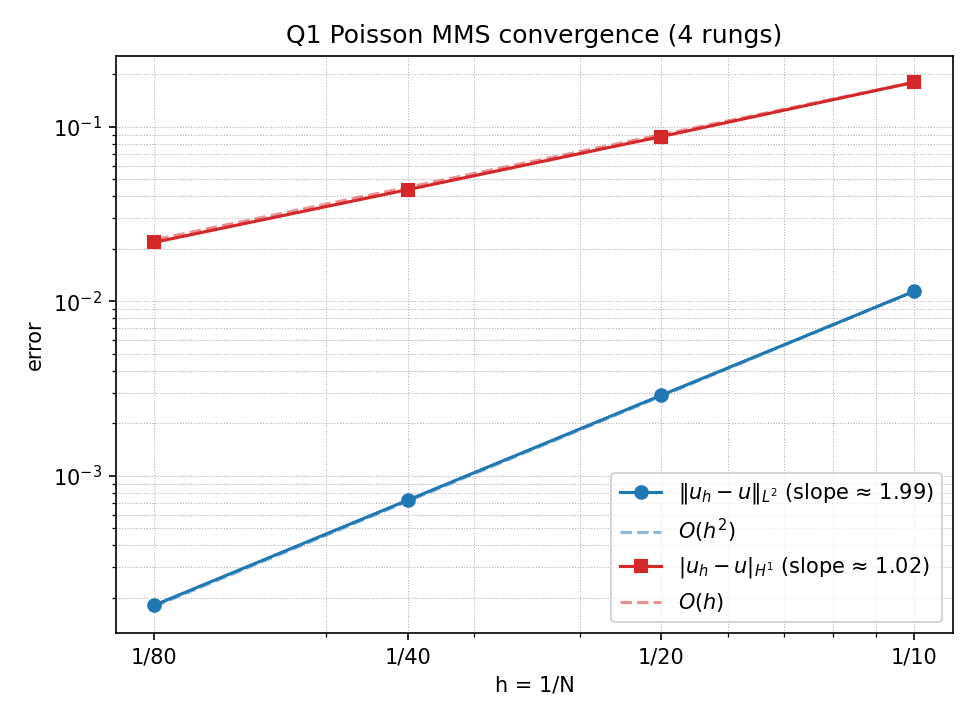
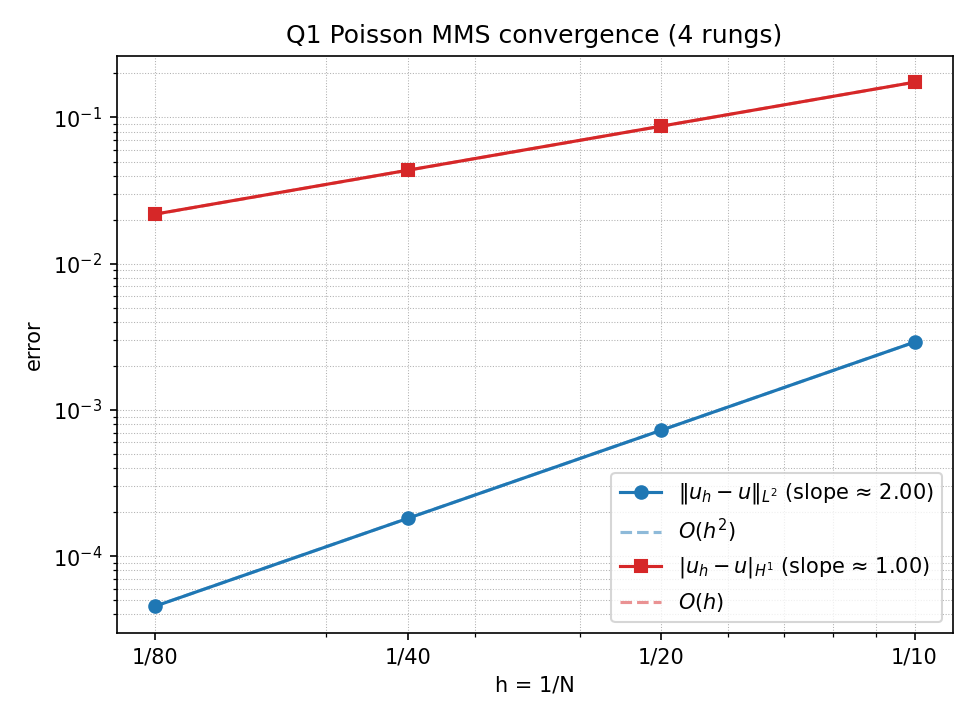
align MMS error norms with assembly quadrature
Clarify prompt to require the same 2x2x2 Gauss-Legendre rule for
L2/H1 error integration as used in assembly, and refresh the Q1
convergence gold data accordingly. Also pin -O2 -g for RelWithDebInfo
so release builds stay debuggable.

diff --git a/prompt.md b/prompt.md
@@ -261,8 +261,14 @@ error. Constant and linear fields must both pass.
 - Error metrics: both
   - L²: `||u_h − u||_{L²}` = `sqrt(∫ (u_h − u)² dx)`,
   - H¹ seminorm: `|u_h − u|_{H¹}` = `sqrt(∫ |∇u_h − ∇u|² dx)`,
-  integrated on the physical domain (unit cube). Use one
-  element-wise `parallel_reduce` per norm, reusing the Jacobian
+  integrated on the physical domain (unit cube) using the **same
+  2×2×2 Gauss–Legendre rule as assembly**: NQP=8 on the [-1,1]³
+  reference element, `Trait::QP_WEIGHTS` summing to 8,
+  `det(J) = (h/2)³` on the uniform n-per-side unit-cube mesh.
+  Element-local integrand is `(u_h(x_q) − u(x_q))² × det(J) × w_q`
+  for L² and `|∇u_h(x_q) − ∇u(x_q)|² × det(J) × w_q` for H¹; sum
+  over owned elements only, `MPI_Allreduce(SUM)`, then `sqrt`. Use
+  one element-wise `parallel_reduce` per norm, reusing the Jacobian
   inverse from assembly to map `DN_DXI` into physical gradients.
 - Assertions on every consecutive pair of rungs:
   - L² rate `log2(e_L2_coarse / e_L2_fine)` lies in `[1.8, 2.2]`
